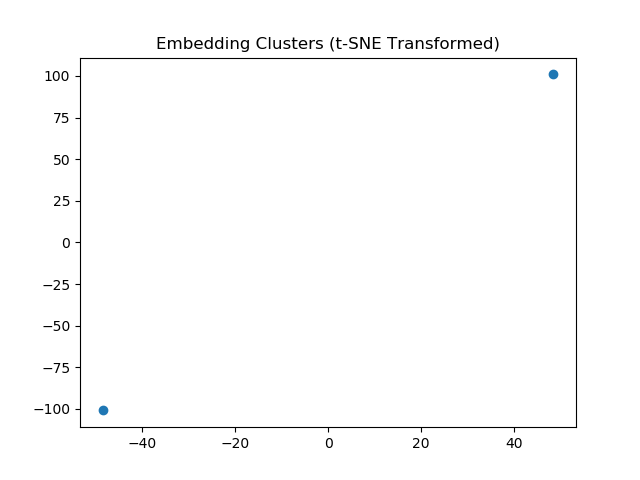
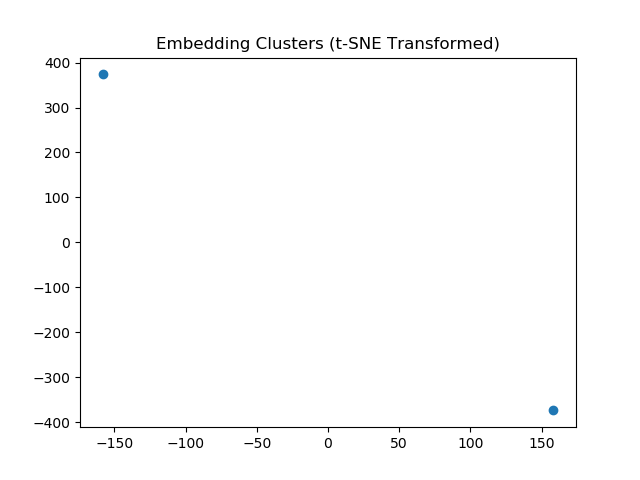
Add tsne and cluster visualization

diff --git a/src/big_cloud_scratch.py b/src/big_cloud_scratch.py
@@ -4,6 +4,7 @@ import matplotlib.pyplot as plt
 import graph2vec as g2v
 import time
 import numpy.distutils.system_info as sysinfo
+import reduce_embedding_dim as red
 
 from joblib import Parallel, delayed
 from gensim.models.doc2vec import Doc2Vec, TaggedDocument
@@ -59,7 +60,7 @@ def plot_commits(graph):
     nx.draw_kamada_kawai(graph, alpha=0.5, node_color='blue', node_size = 2)
 
 n_workers    = 4
-n_iterations = 1
+n_iterations = 10
 n_dimensions = 128
 
 if __name__ == '__main__':
@@ -97,11 +98,16 @@ if __name__ == '__main__':
 
     saveEmbeddingsTime = time.time()
 
+    red.reduce()
+
+    reduceTime = time.time()
+
     print("Query Time:\t\t" + str(getDataTime - startTime) + "\tseconds")
     print("NxGraphs Time:\t\t" + str(generateGraphsTime - getDataTime) + "\tseconds")
     print("FeatExtract Time:\t" + str(featExtractTime - generateGraphsTime) + "\tseconds")
     print("Model Build Time:\t" + str(buildModelTime - featExtractTime) + "\tseconds")
     print("Save Embeddings Time:\t" + str(saveEmbeddingsTime - buildModelTime) + "\tseconds")
+    print("Dim Reduce Time:\t" + str(reduceTime - saveEmbeddingsTime) + "\tseconds")
 
     for graph in range(len(graphs)):
         figure = plt.gcf() # get current figure

diff --git a/src/reduce_embedding_dim.py b/src/reduce_embedding_dim.py
@@ -27,10 +27,13 @@ def output_image_of_tsne(embeddings_tsne_transform, filename):
     filename: filepath to output image to.
     """
     fig, ax = plt.subplots()
-    ax.scatter(embeddings_tsne_transform.x,transformed_array.y)
+    ax.scatter(embeddings_tsne_transform.x, embeddings_tsne_transform.y)
     ax.set_title('Embedding Clusters (t-SNE Transformed)')
     plt.savefig(filename)
 
-if __name__=='__main__':
+def reduce():
     transformed_array = run_tsne('./results/embeddings.csv')
     output_image_of_tsne(transformed_array, './results/embeddings_tsne')
+
+if __name__=='__main__':
+    reduce()
